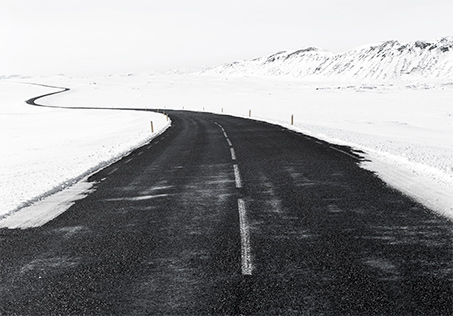
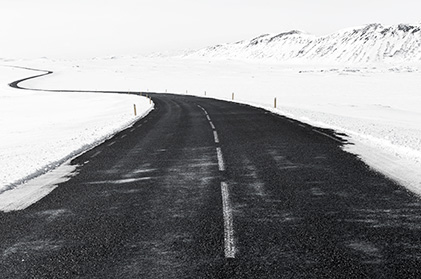
changes

diff --git a/html-css/module-03/index.html b/html-css/module-03/index.html
@@ -60,7 +60,7 @@
               <article>
                 <img
                   class="article-img"
-                  src="./img/Filtro-fotografico-5-copia-2.jpg"
+                  src="./img/dcdv.jpg"
                   alt="img"
                   width="421"
                   height="279"
@@ -98,7 +98,7 @@
               <article>
                 <img
                   class="article-img"
-                  src="./img/image1.jpg"
+                  src="./img/123.jpg"
                   alt="img"
                   width="421"
                   height="279"
@@ -152,8 +152,8 @@
               </article>
             </li>
           </ul>
+          <button class="button">Load more</button>
         </div>
-        <button class="button">Load more</button>
       </section>
     </main>
   </body>

diff --git a/html-css/module-03/css/style.css b/html-css/module-03/css/style.css
@@ -116,6 +116,7 @@ body {
 }
 /*основной текст*/
 .article-content {
+  margin: 0;
   font-size: 14px;
   line-height: 24px;
   color: #626262;
